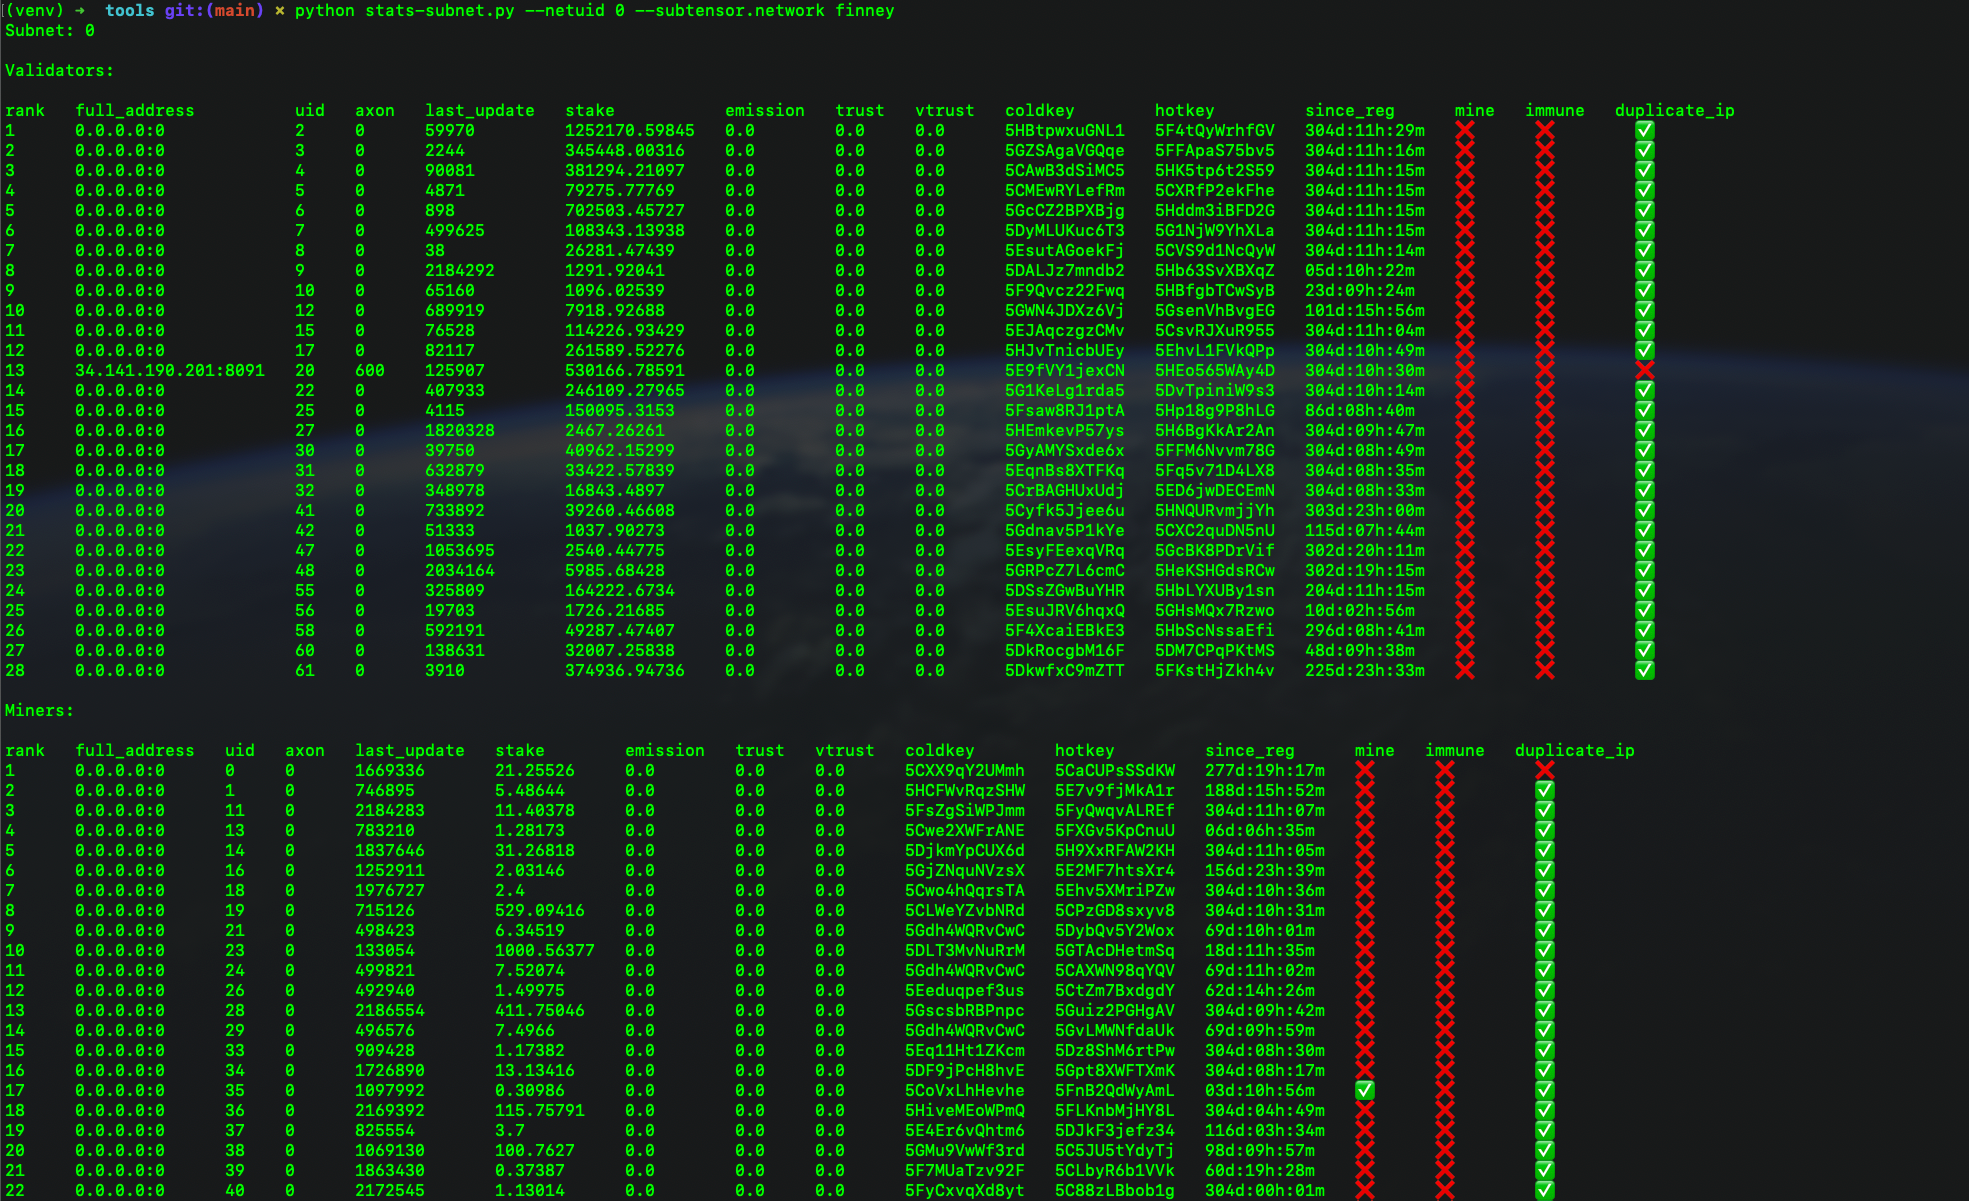
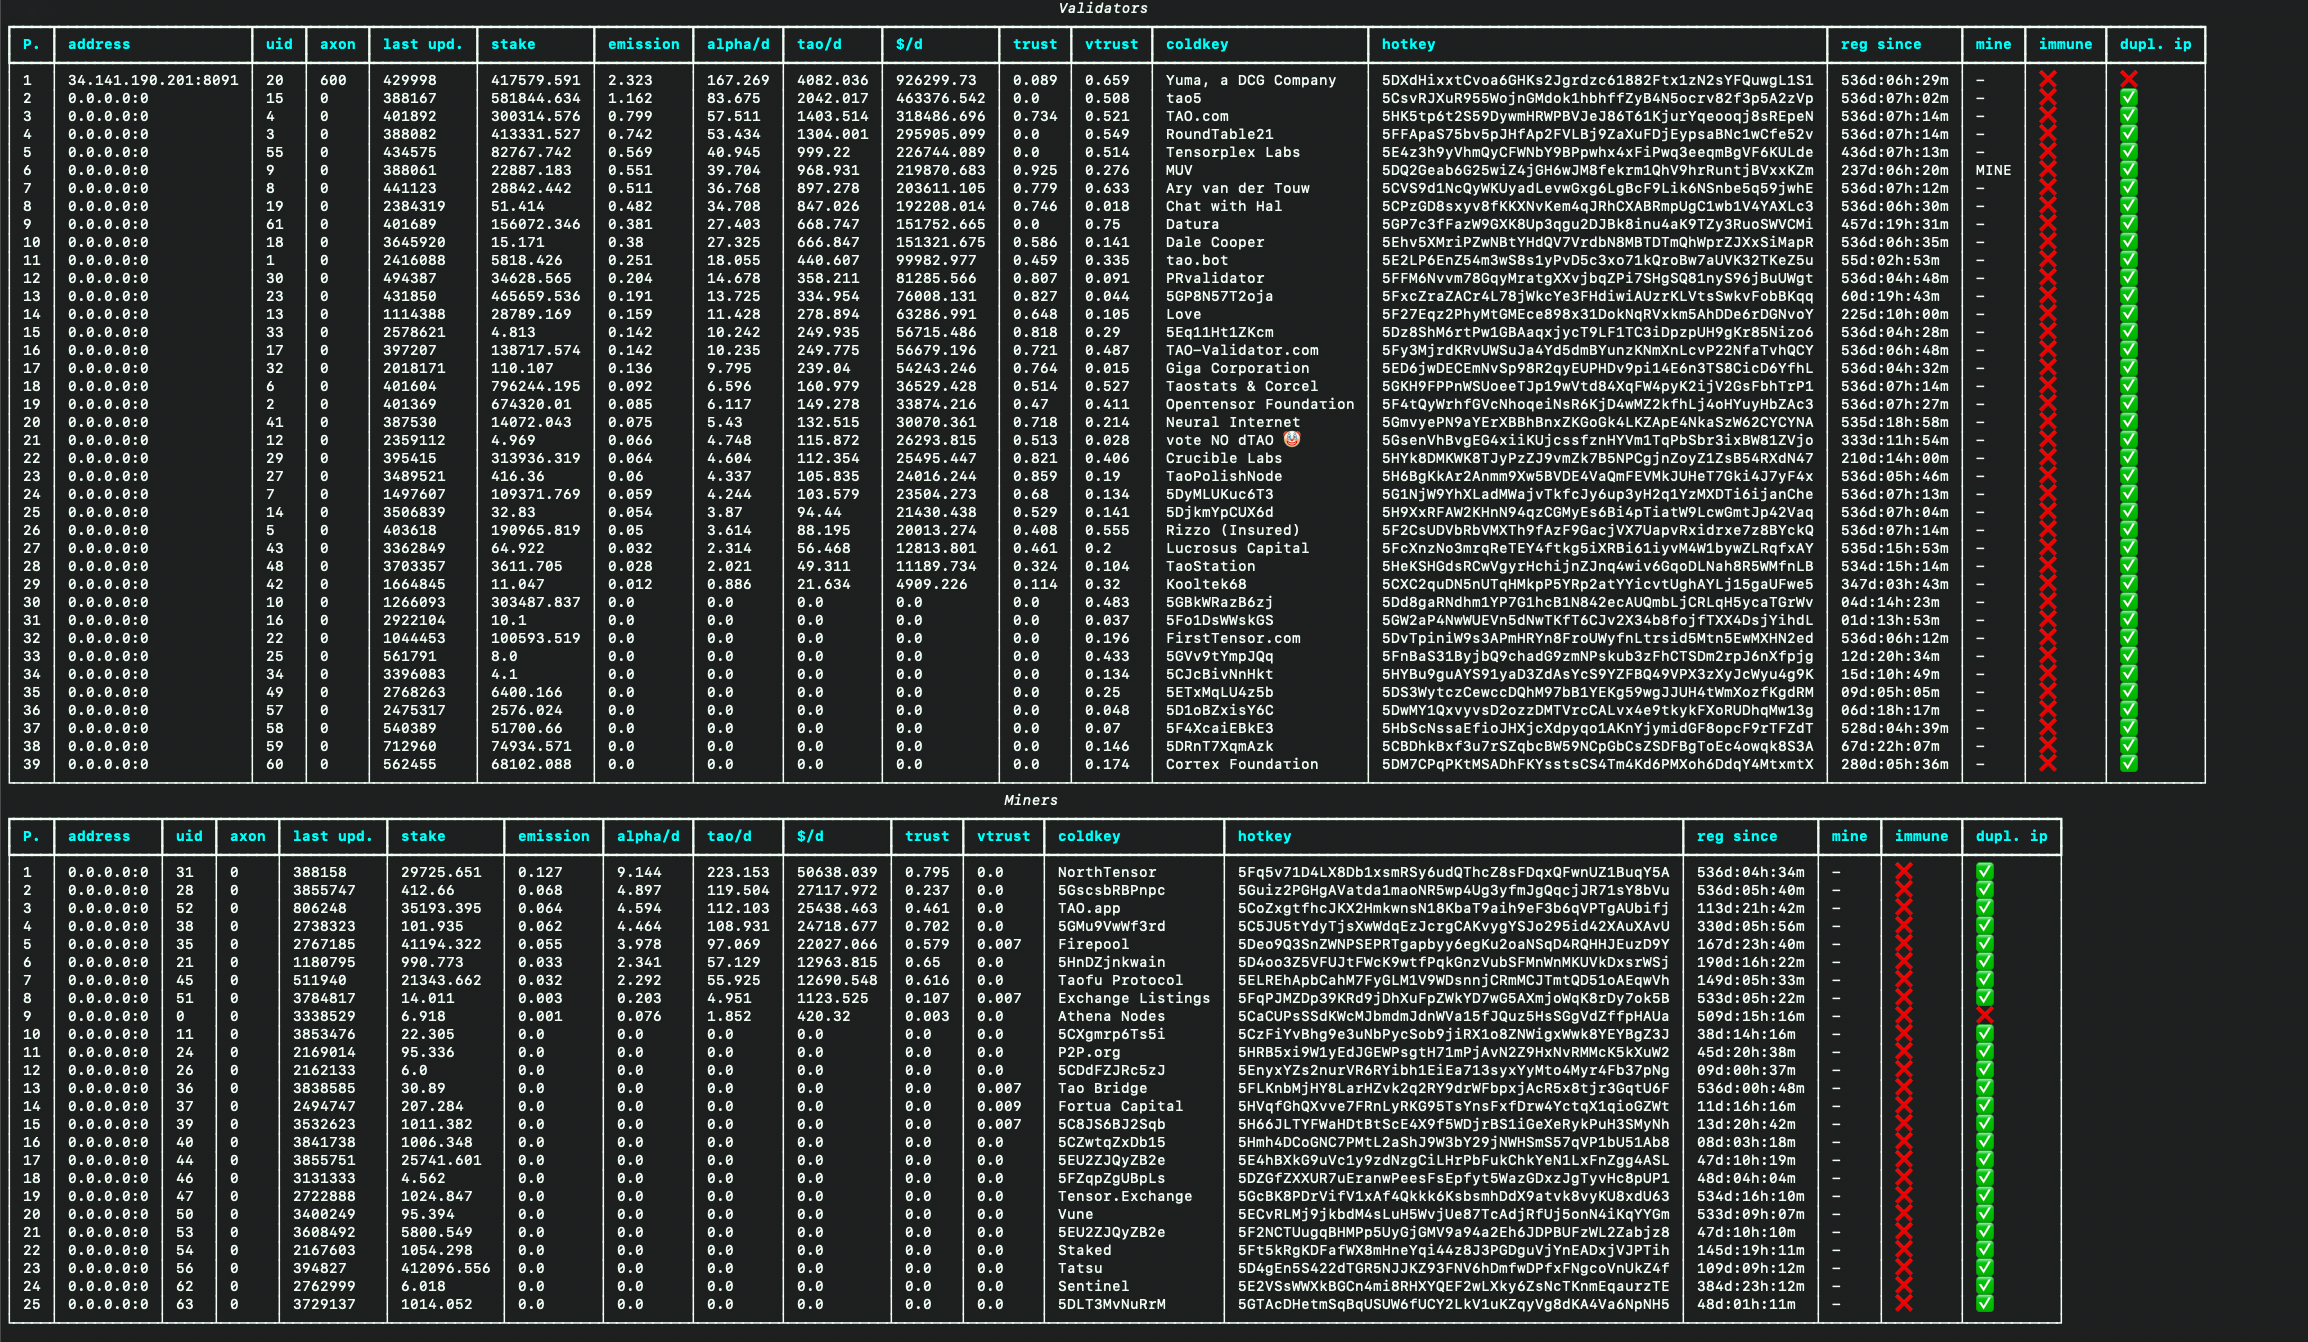
update the readme

diff --git a/README.md b/README.md
@@ -11,10 +11,10 @@ pip install -r requirements.txt
 Scripts to get a quick overview of the performing keys of a subnet.
 
 ```bash
-# specifying subnet uid:
-python stats-subnet.py --netuid 0
+# specifying subnet uid and show the full hotkey
+python stats-subnet.py --hot-key --netuid 0
 # with all available arguments
-python stats-subnet.py --netuid 0 --weights --long_key --round 6 --sort trust 
+python stats-subnet.py --netuid 0 --weights --round 6 --sort trust 
 # with bittensor args
 python stats-subnet.py --netuid 0 --subtensor.network local --wallet.path "~/my/bittensor/wallets/path"
 ```
@@ -22,9 +22,6 @@ python stats-subnet.py --netuid 0 --subtensor.network local --wallet.path "~/my/
 ### root subnet example
 
 ![root subnet example](pics/stats-subnet-0.png)
-
-### subnet 2 total example
-![subnet 2 total example](pics/stats-subnet-1.png)
 
 ## Contribution
 
